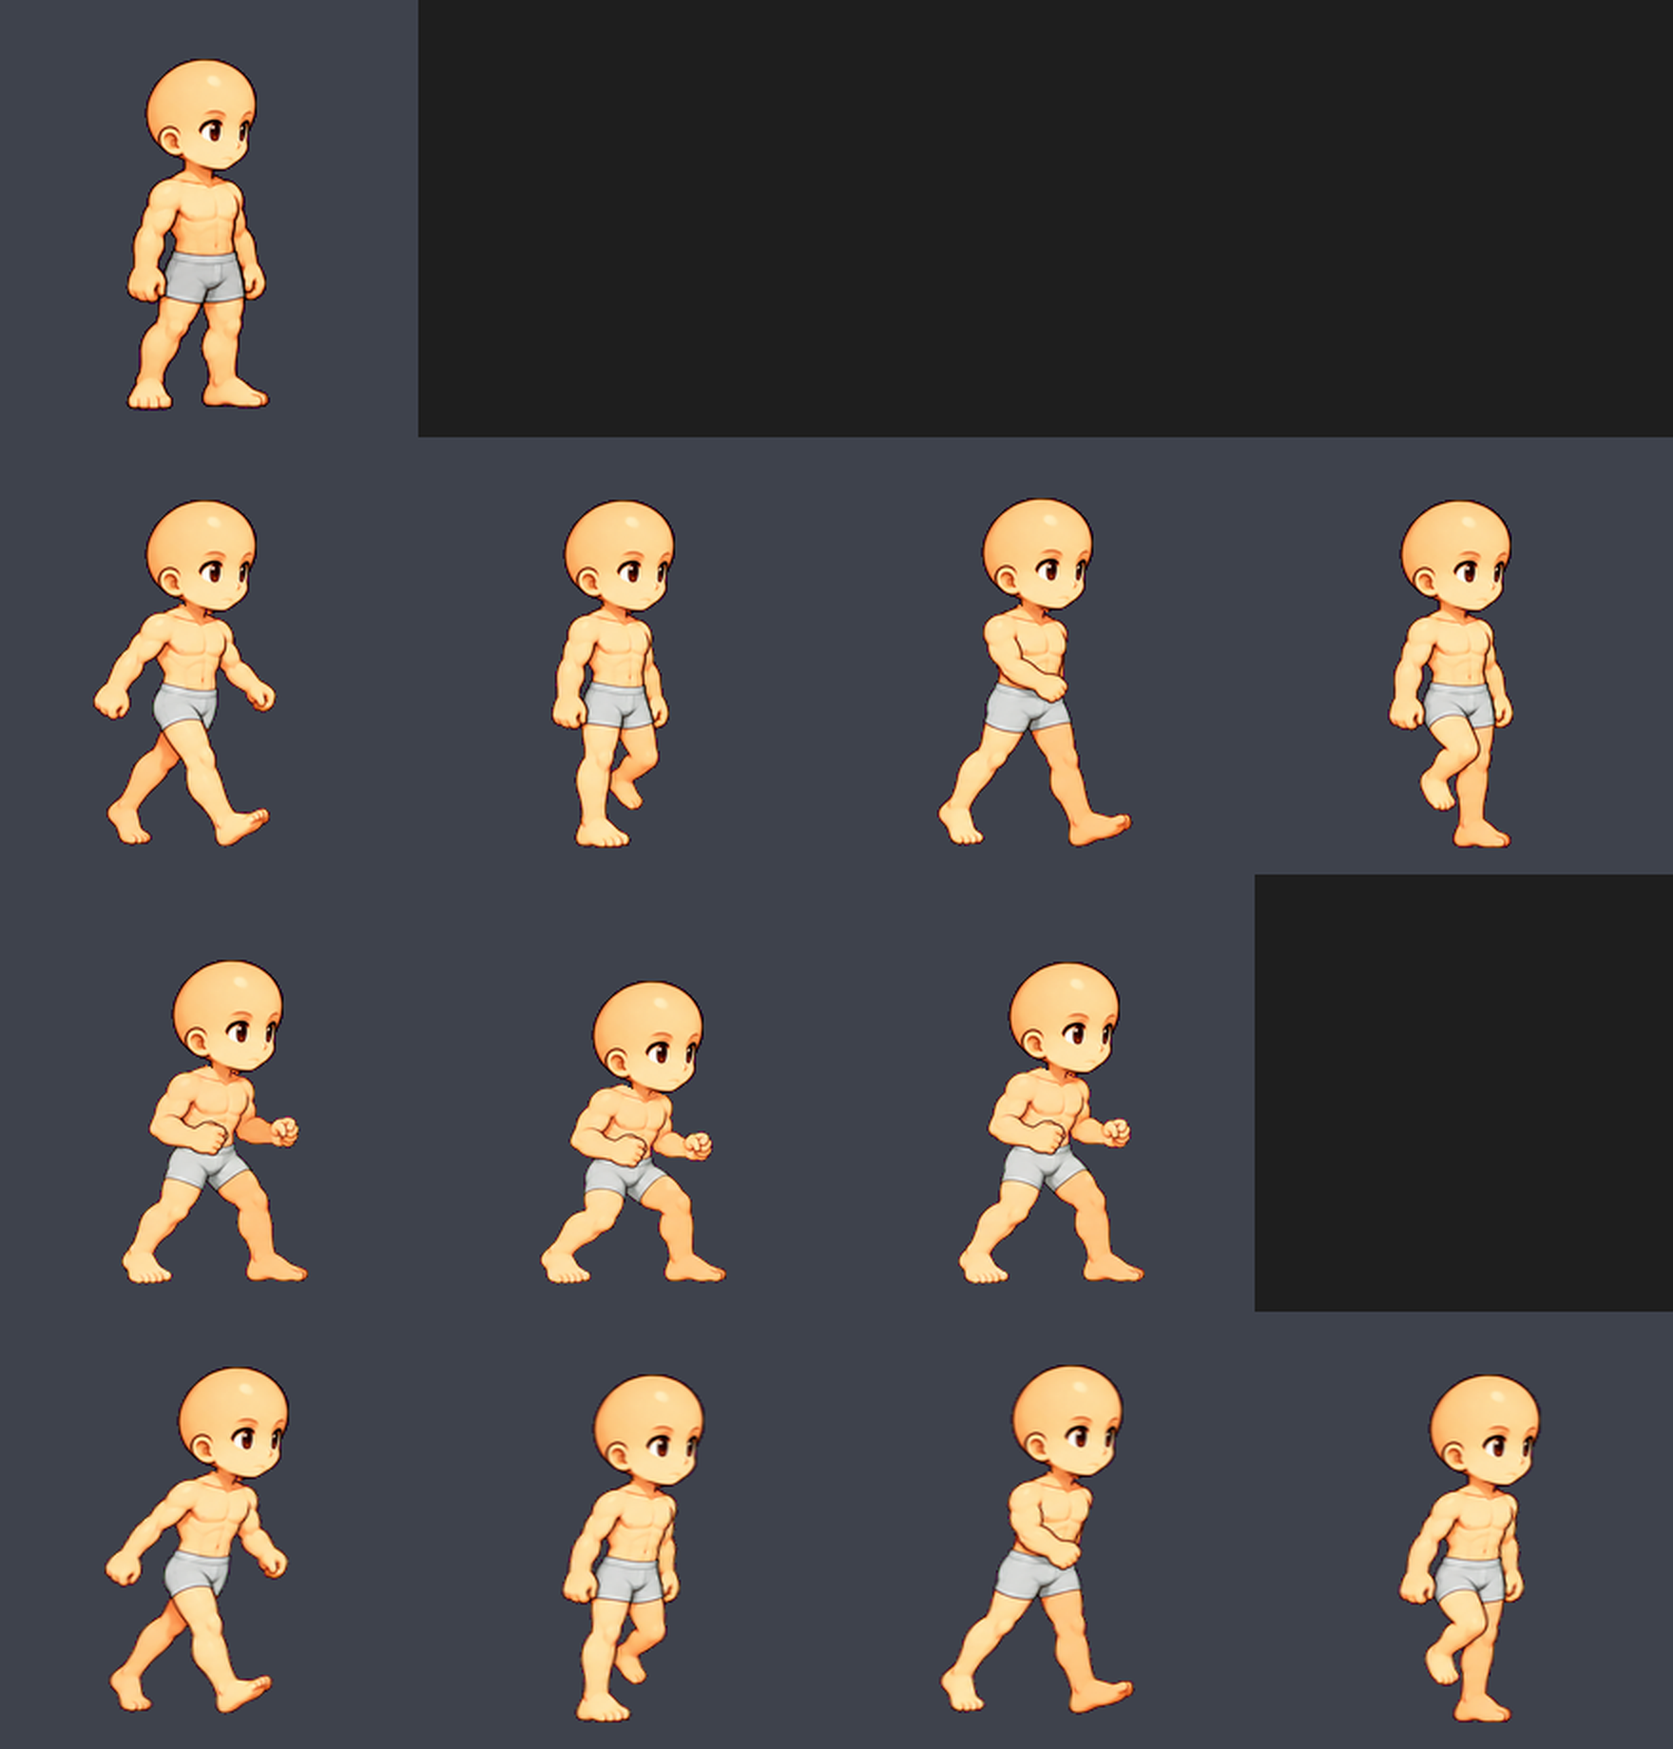
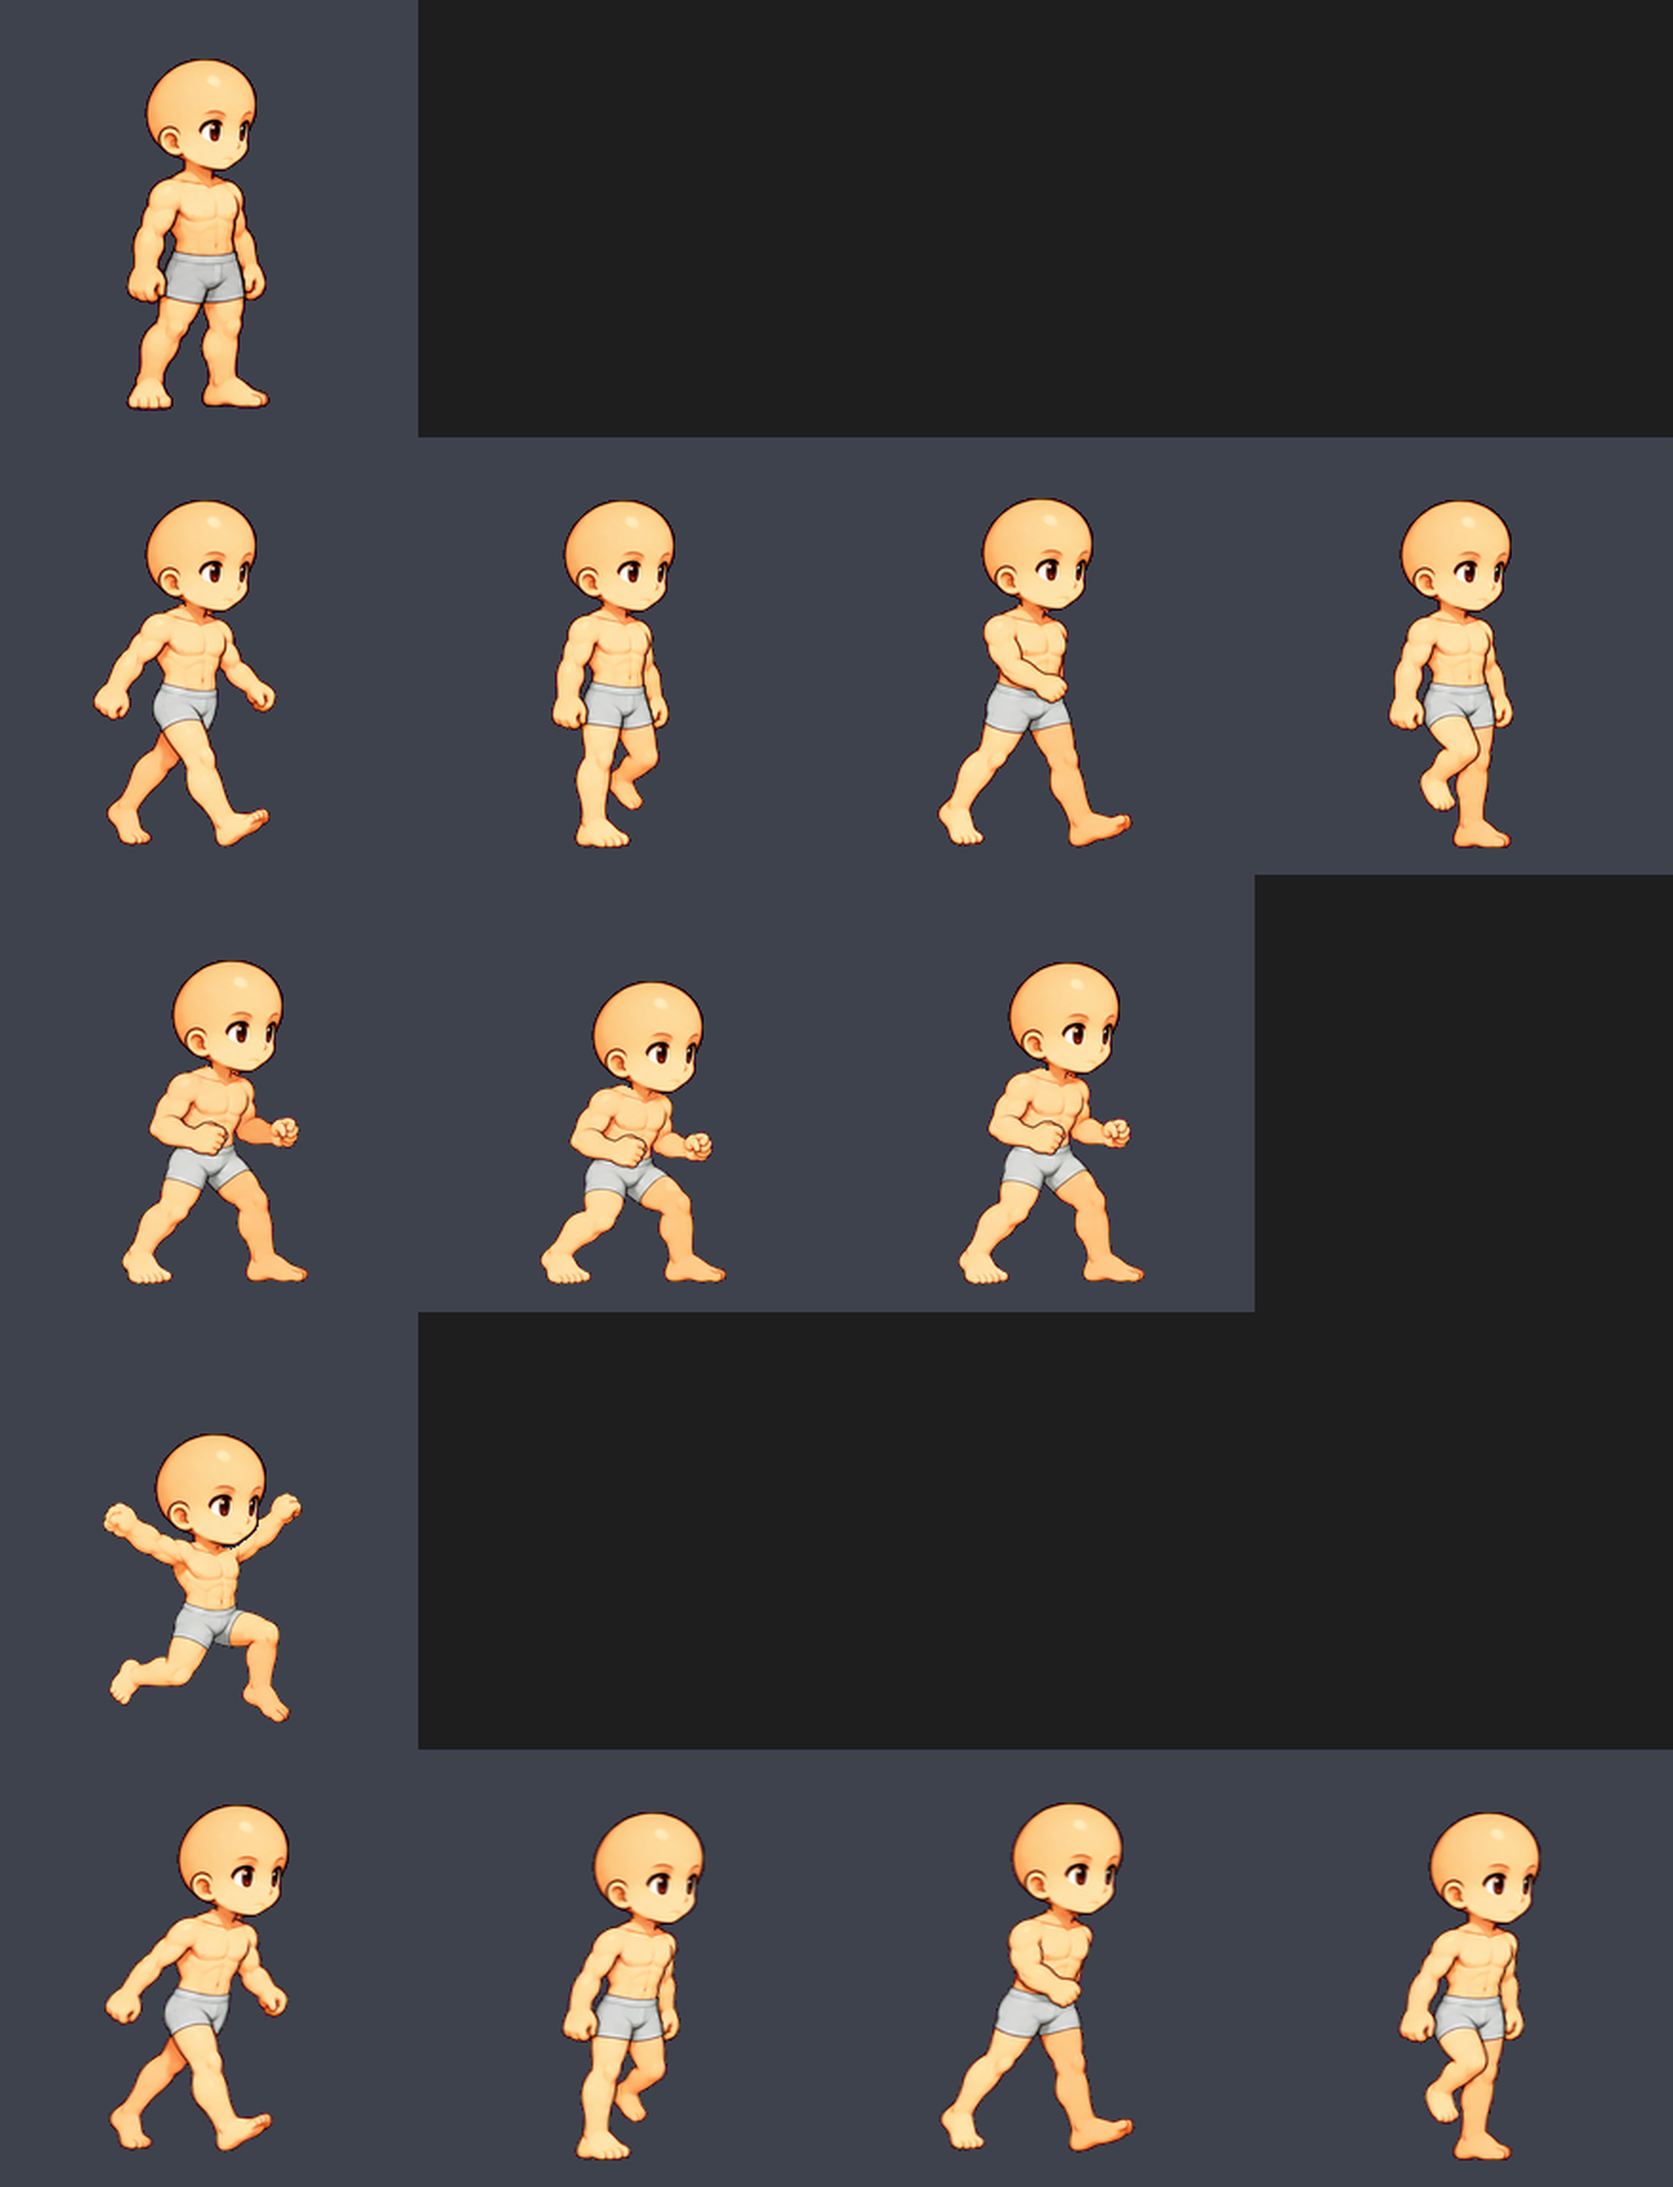
Base character jump for both genders (MapleStory: one frame the whole time off the ground)
- One GPT drawing (man left, woman right), the walk's size, the far leg shaded darker, the standing head
  going with the neck; shown from take-off until landing.
- Head width measured above the hands when the hands are up beside the head.
- Top / shorts labels: the shorts are the lowest grey piece, the top above it (any pose).

Claude-Session: https://claude.ai/code/session_019q8CMrxghbNzj8w42KsHoP

diff --git a/src/game/Body.ts b/src/game/Body.ts
@@ -178,6 +178,7 @@ function nakedPose(cls: string, dir: Dir, g: 'male' | 'female', q: PoseQuery): P
     anim = q.state === 'run' && has.run ? 'run' : 'walk';
     const c = baseLoop(q.state, q.speed); frame = Math.floor((q.t * c.fps) / 1000) % has[anim];
   } else if (q.k === 'loop' && q.state === 'alert' && has.alert) { anim = 'alert'; frame = Math.floor(q.t / 500) % has.alert; } // 0.5 s a frame (Maple)
+  else if (q.k === 'jump' && q.phase !== 'land' && has.jump) anim = 'jump'; // Maple: one frame the whole time off the ground
   const key = nakedKey(g, anim), [hx, hy] = NAKED_HEADS[g]?.[anim]?.[frame] ?? [0, 0], fx = f.flip ? -1 : 1;
   return { ...f, key, frame, wkey: `${key}-w`, blade: null, bladeBehind: false, hair: null, head: null,
     anchor: f.anchor ? f.anchor.map((v, i) => (i % 2 === 0 ? v + hx * fx * SHEET_SCALE : v + (hy + (i === 1 ? NAKED_HEAD_DROP : 0)) * SHEET_SCALE)) : null };

diff --git a/tools/base/naked_frames.py b/tools/base/naked_frames.py
@@ -15,6 +15,7 @@
 #   "farL" / "farR"  the left / right leg (as drawn) is the far one: drawn darker (GPT drew both legs alike)
 #   "ownhead"  keep GPT's head (no standing head)
 #   "feet"   the feet stay planted: every frame's feet where the move's first frame has them, the head goes with the neck
+#   "follow" the head goes with the neck (the frame is not moved under the standing head's x)
 # "run": {"from": "walk", "lean": [body, torso], "lift": [px per frame]} — the walk frames leaning forward (the whole
 #   body tilts from the feet, the torso a little more from the waist; the head stays upright), optional lift per frame.
 import json, os, sys, numpy as np
@@ -54,6 +55,9 @@ def figures(path):
     m = L == i; ys, xs = np.nonzero(m)
     y0, y1, x0, x1 = ys.min(), ys.max(), xs.min(), xs.max()
     head = m[y0:y0 + int((y1 - y0) * 0.28)]
+    runs = [np.count_nonzero(np.diff(np.concatenate([[0], r.astype(np.int8), [0]])) == 1) for r in head]
+    if max(runs) > 1:                                          # hands up beside the head: the rows above them only
+      head = head[:runs.index(next(v for v in runs if v > 1))]
     hx = np.nonzero(head.any(0))[0]
     R_, G_, B_ = [e[..., k] for k in range(3)]; mx_ = np.maximum(np.maximum(R_, G_), B_); mn_ = np.minimum(np.minimum(R_, G_), B_)
     grey = m & ((mx_ - mn_) / np.maximum(mx_, 1) < 0.13) & (mx_ > 105) & (np.arange(m.shape[0])[:, None] > y0 + (y1 - y0) * 0.45)
@@ -111,12 +115,11 @@ def label(e, a):
   mx = np.maximum(np.maximum(R, Gc), B); mn = np.minimum(np.minimum(R, Gc), B); sat = (mx - mn) / np.maximum(mx, 1)
   grey = nd.binary_opening(fig & (sat < 0.13) & (mx > 105), iterations=1)
   lab = np.where(fig, 60, 0).astype(np.uint8)
-  gL, gn = nd.label(grey); ys = np.nonzero(fig.any(1))[0]; top, bot = ys.min(), ys.max()
-  for k in range(1, gn + 1):
-    cm = gL == k
-    if cm.sum() < 40: continue
-    part = 80 if np.nonzero(cm)[0].mean() < top + (bot - top) * 0.47 else 200
-    lab[nd.binary_fill_holes(nd.binary_closing(cm, iterations=2)) & fig] = part
+  gL, gn = nd.label(grey)
+  parts = [(np.nonzero(gL == k)[0].mean(), gL == k) for k in range(1, gn + 1) if (gL == k).sum() >= 40]
+  low = max((cy for cy, _ in parts), default=0)                  # the shorts: the lowest grey piece; the top: above it
+  for cy, cm in parts:
+    lab[nd.binary_fill_holes(nd.binary_closing(cm, iterations=2)) & fig] = 200 if cy > low - 15 else 80
   for part in (80, 200):
     lab[nd.binary_dilation(lab == part, iterations=2) & fig & (lab == 60) & (mx < 120)] = part
   return fig, lab
@@ -280,7 +283,7 @@ for anim, cells in spec['anims'].items():
     hxy = [0, 0]
     if anim != 'idle' and 'ownhead' not in opts:
       r = sc * figures(path)[idx]['headw'] / HEADW                 # GPT's head size / the standing head's
-      e, a, fig, lab, info = put_head(e, a, fig, lab, HEAD, r, follow='feet' in opts)
+      e, a, fig, lab, info = put_head(e, a, fig, lab, HEAD, r, follow='feet' in opts or 'follow' in opts)
       print(' ', anim, c, 'scale', round(sc, 4), 'head', info); hxy = [int(info['hx']), int(info['dy'])]
     heads[anim].append(hxy)
     px[:, c * S:(c + 1) * S, :3] = e.clip(0, 255).astype(np.uint8); px[:, c * S:(c + 1) * S, 3] = np.where(fig, (a * 255).clip(0, 255), 0).astype(np.uint8)
